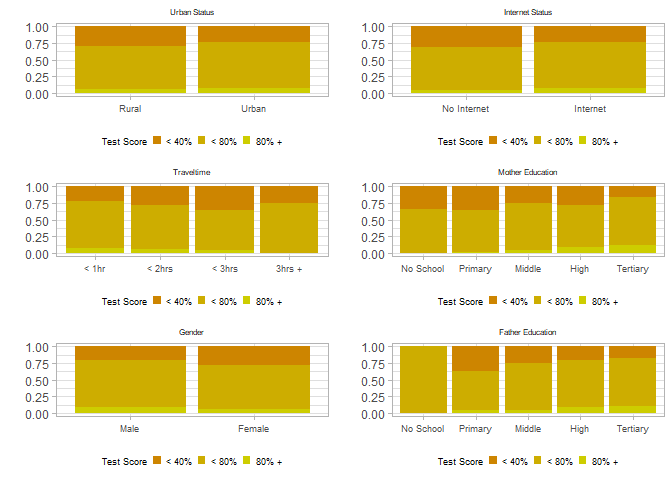
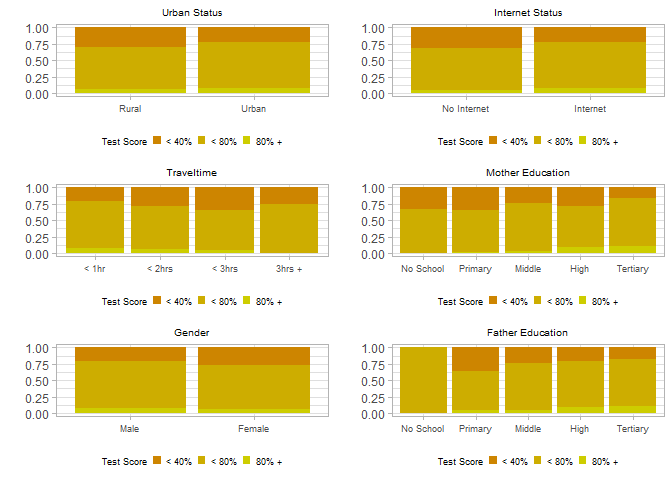
Changed Table image output size.

diff --git a/README.md b/README.md
@@ -1,7 +1,7 @@
 The purpose of this README is to guide someone through a very basic
 Instrumental Variable statistical estimation methodology. In this case,
 it is applied to a development economics question, in the form of
-estimating a counfound-free measure of the relationship between the
+estimating a confound-free measure of the relationship between the
 status of a student as urban or rural, and their performance in school.
 
 # Required Packs
@@ -291,10 +291,10 @@ bptest(Model4) # p value = 0.2193 (cannot reject null hypothesis of homokedastic
 # I screenshotted the table. Stargazer does not interact well with markdown pdfs but I have since learned better table management and general alternatives to stargazer. 
 
 knitr::include_graphics("Images/Table.png", 
-                         dpi = 300)
+                         dpi = 72)
 ```
 
-<img src="Images/Table.png" width="307" />
+<img src="Images/Table.png" width="100%" height="100%" />
 
 # Residuals of Model
 
